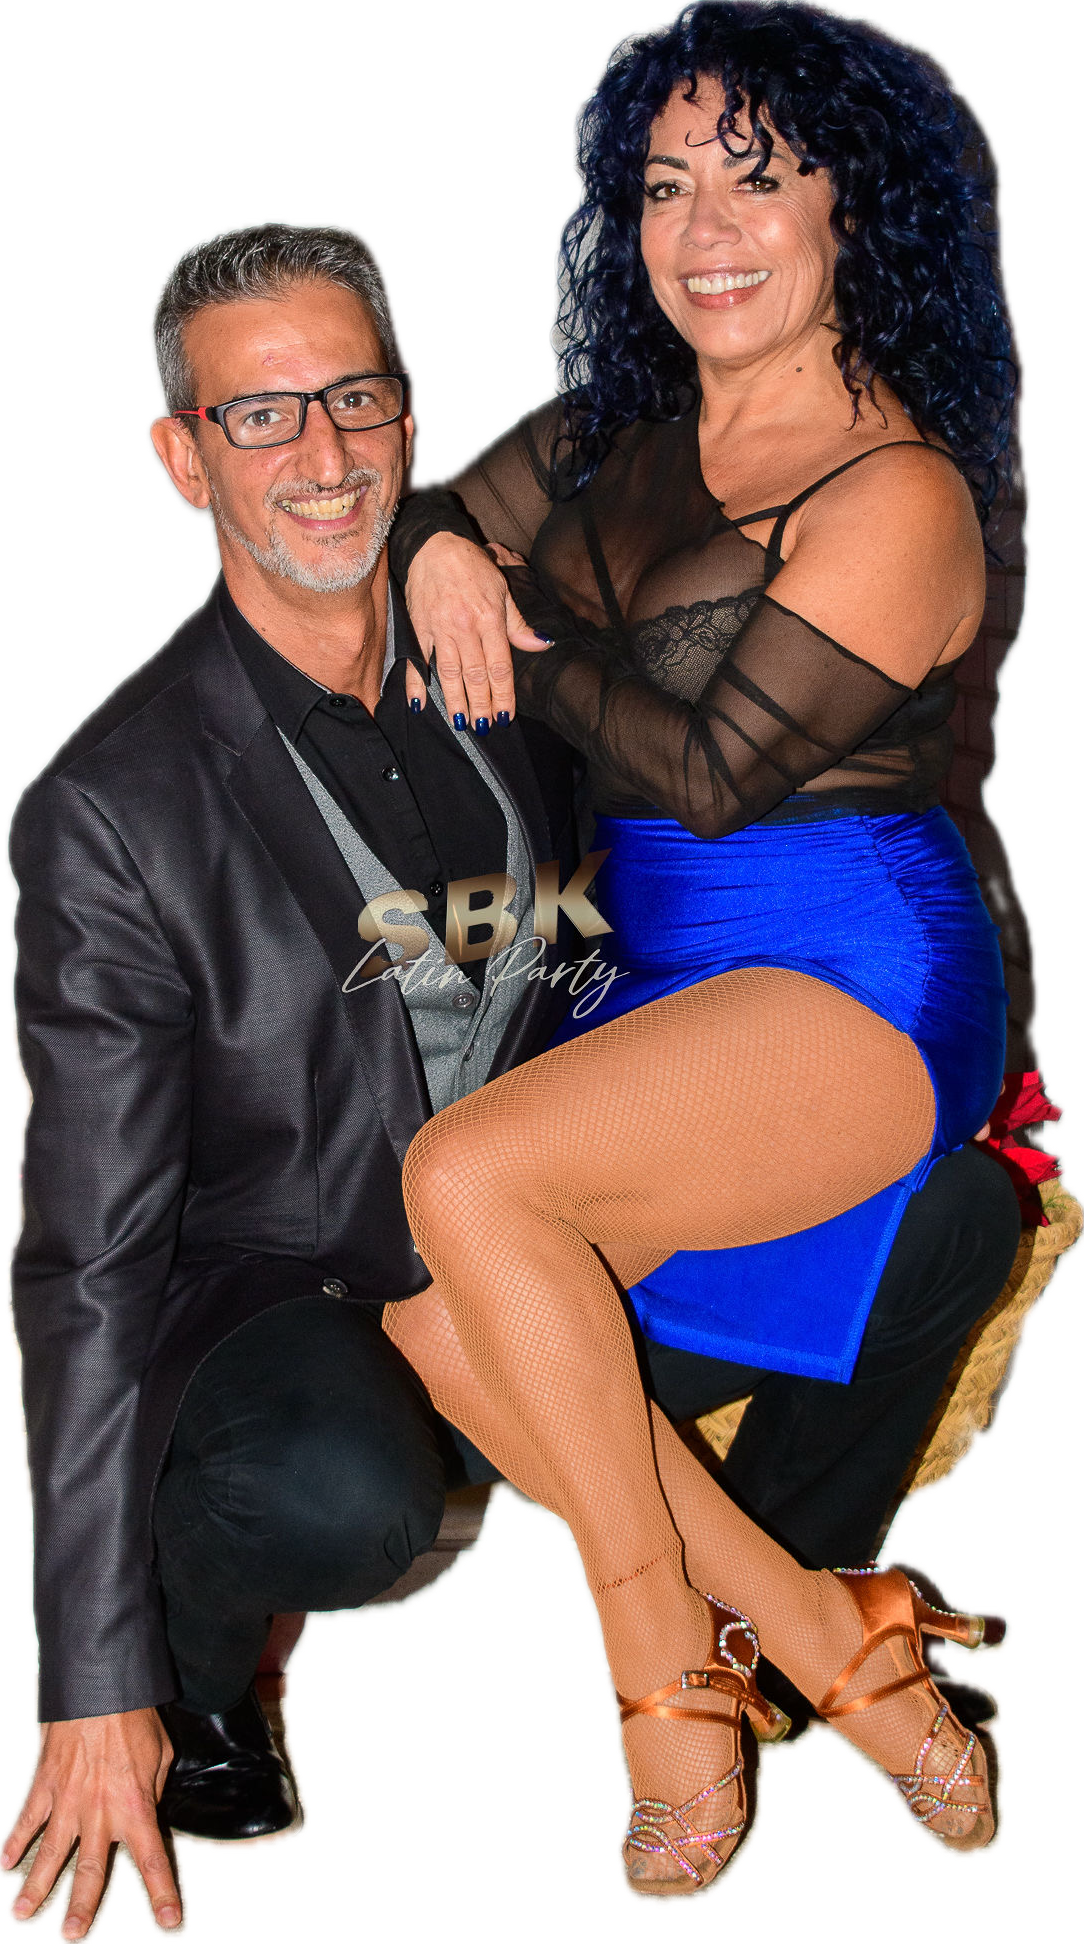
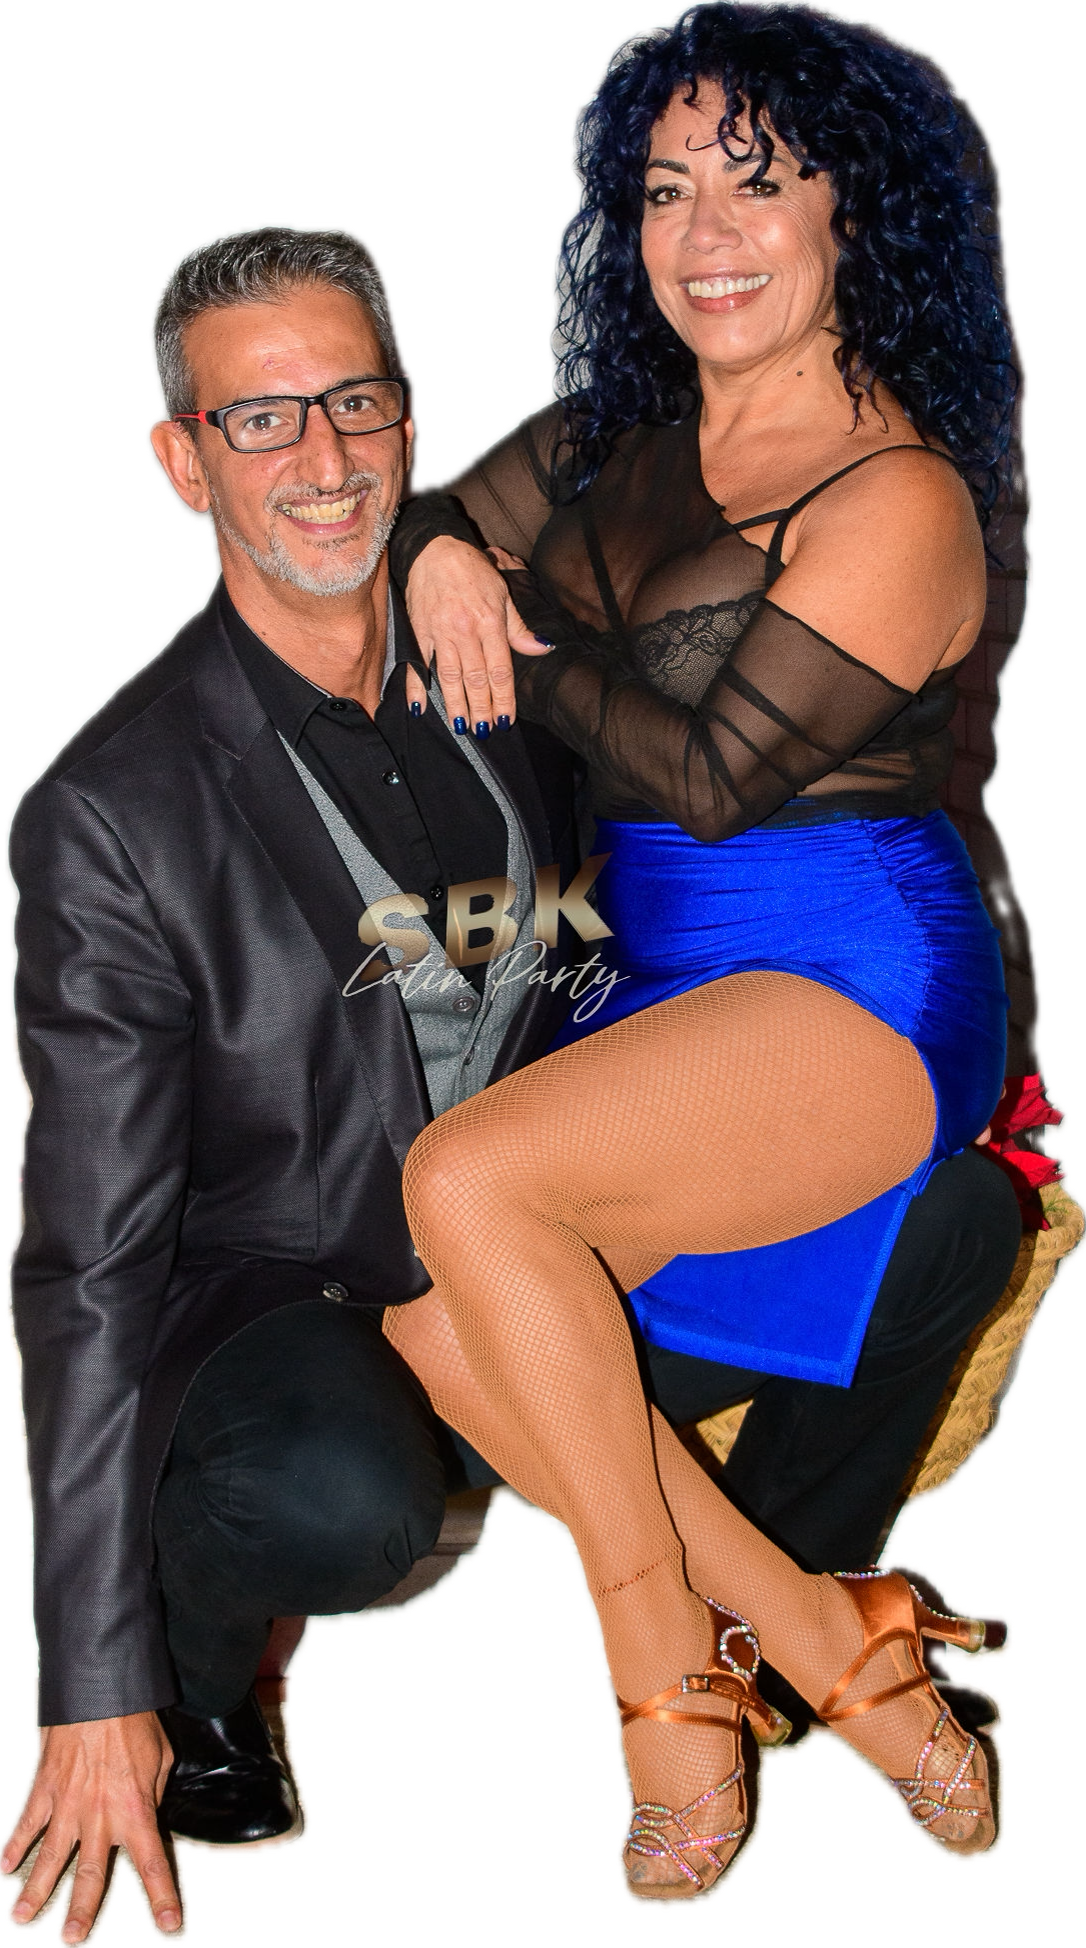
actualizacion imagenes cabezera

diff --git a/index.html b/index.html
@@ -181,7 +181,7 @@
     <header>
         <div class="header-images">
             <img src="resources/images/photo.png" alt="Imagen Izquierda">
-            <img src="resources/images/photo.png" alt="Imagen Derecha">
+            <img src="resources/images/photo 2.jpg" alt="Imagen Derecha">
         </div>
         <h1>Isa Campoy & Andrés Fdez</h1>
         <h4>Salsa ON1. Estilo Los Ángeles</h4>
